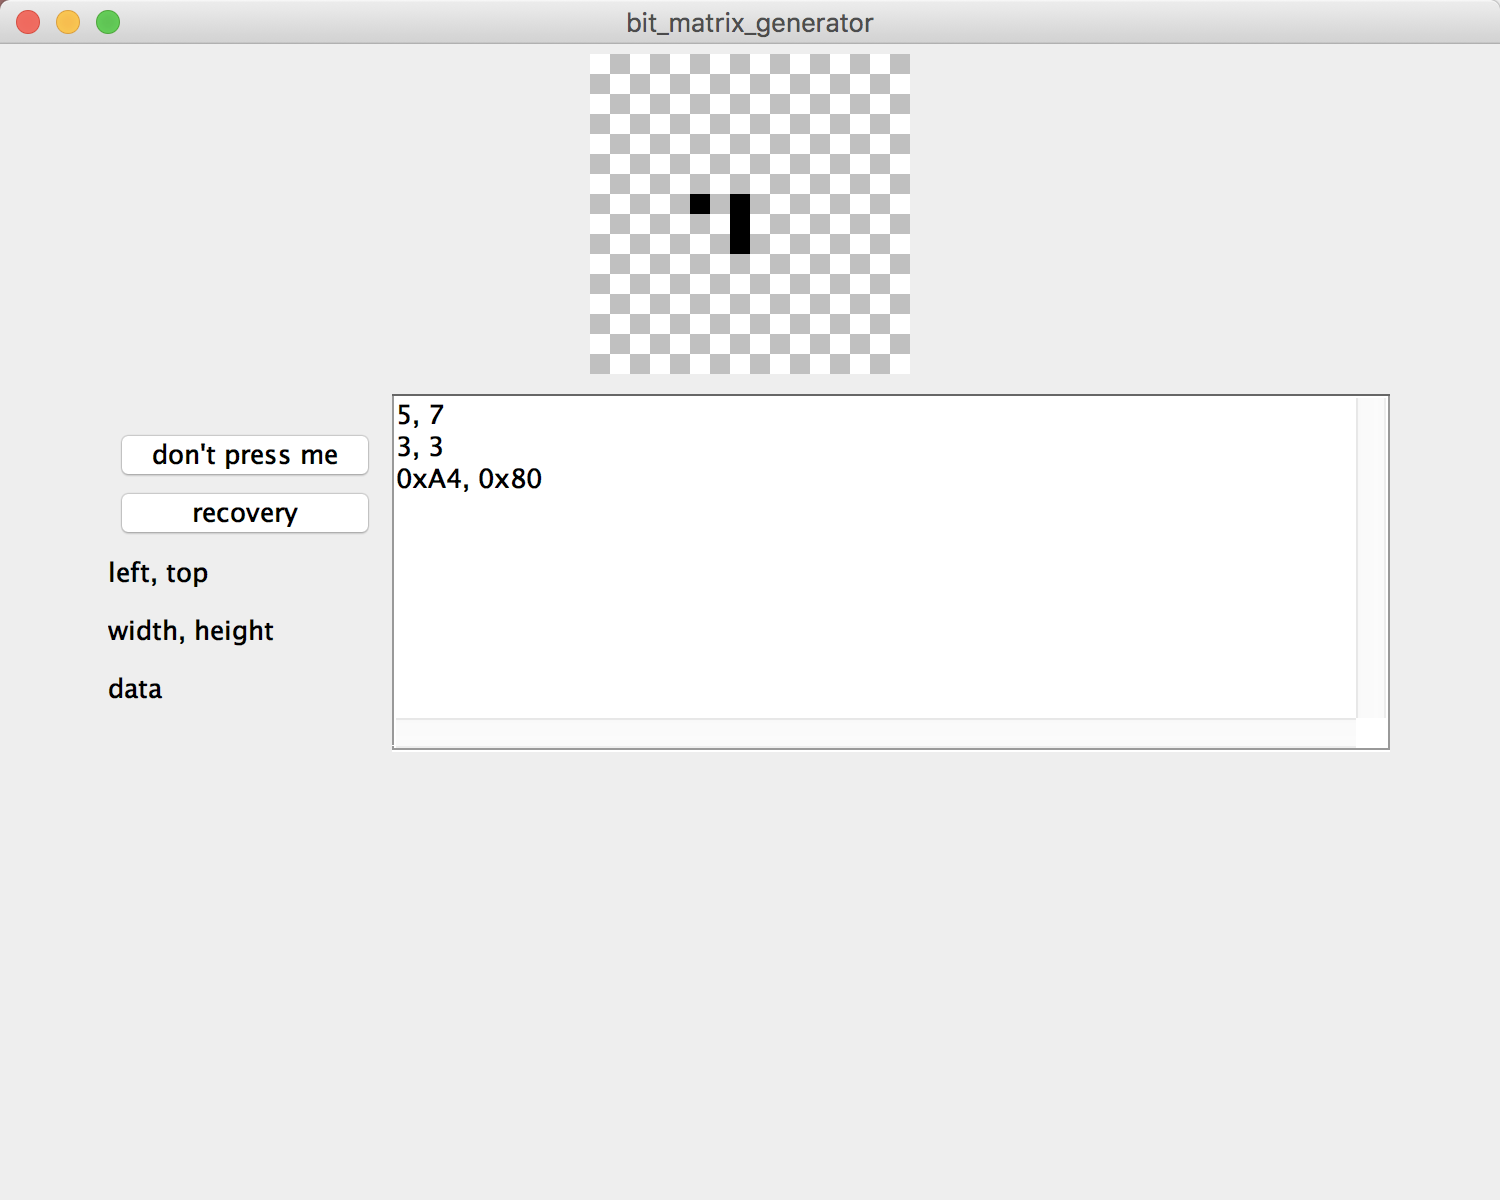
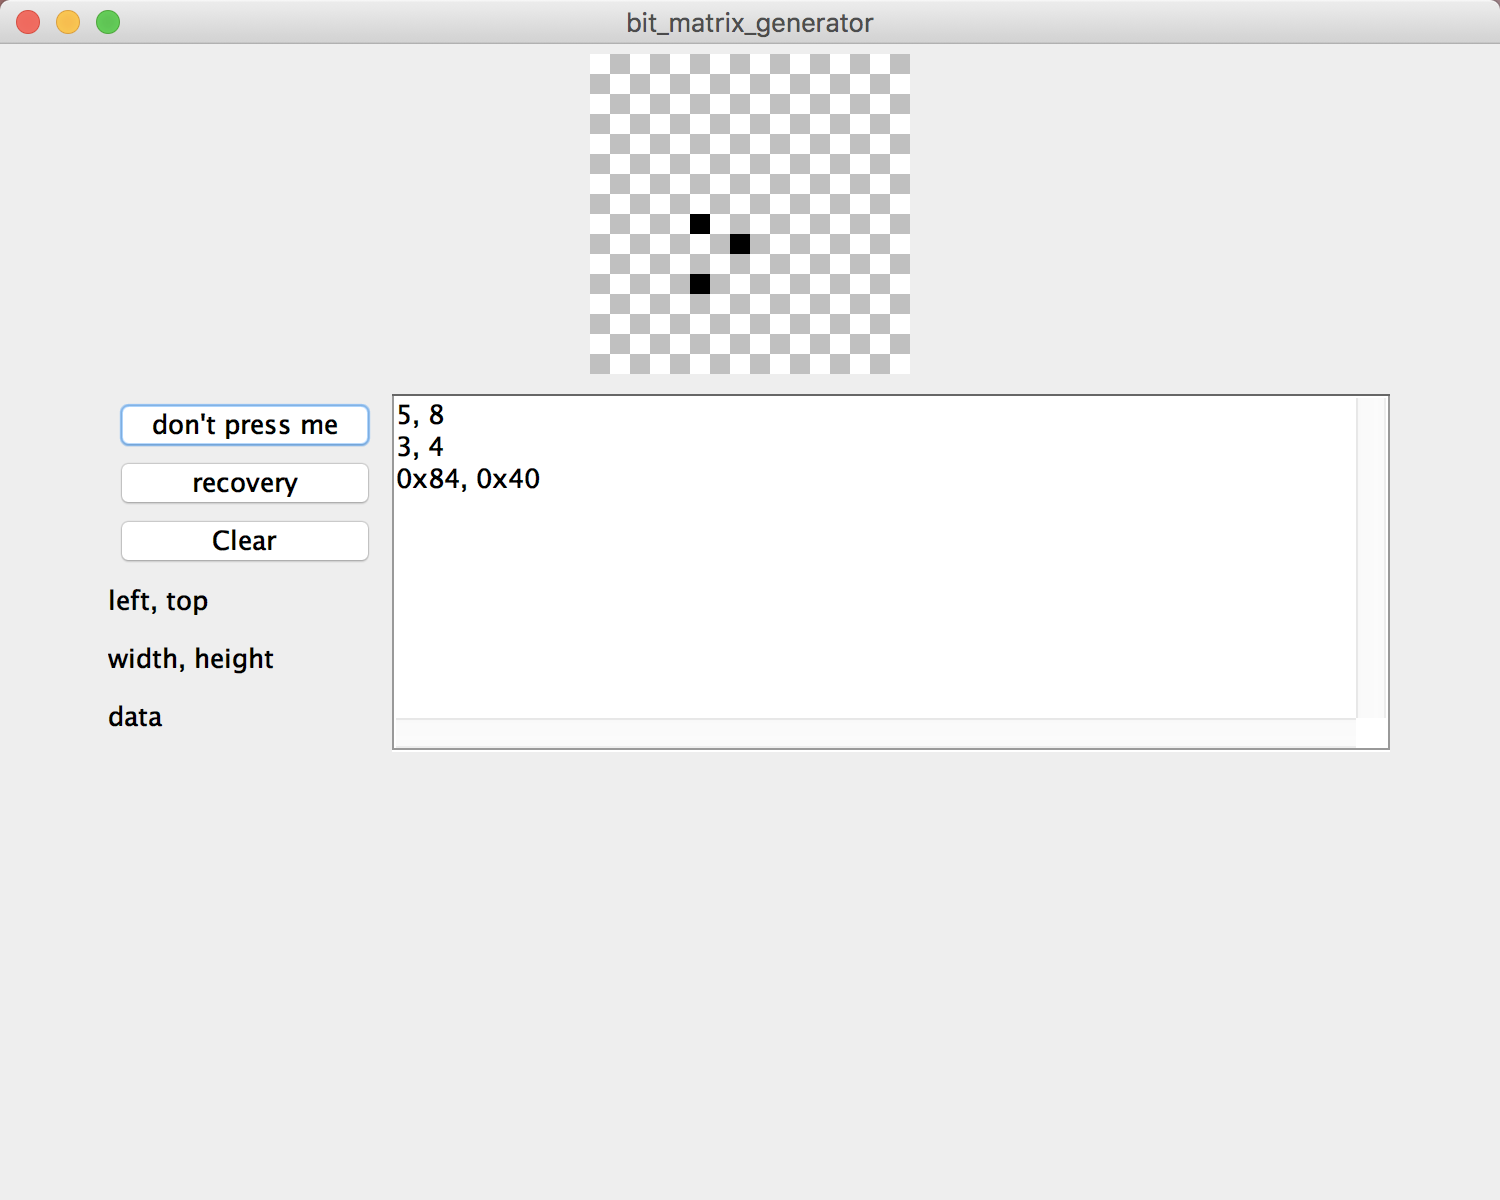
Add Clear Button

Changed region(s): [[0.0613, 0.3392, 0.2453, 0.6167], [0.276, 0.3392, 0.368, 0.4317], [0.46, 0.1542, 0.5213, 0.2467]]

diff --git a/customized_tools/bit_matrix_generater/GUI.java b/customized_tools/bit_matrix_generater/GUI.java
@@ -3,7 +3,7 @@ import java.awt.event.*;
 
 import javax.swing.*;
 
-public class GUI extends Frame implements ActionListener {
+public class GUI extends Frame {
 
     private Cheese cheese;
     private TextArea textArea;
@@ -28,11 +28,15 @@ public class GUI extends Frame implements ActionListener {
 	add(downPanel);
 
 	Panel controller = new Panel();
-	controller.setLayout(new GridLayout(5, 1));
+	controller.setLayout(new GridLayout(6, 1));
 	downPanel.add(controller);
 
 	Button btn = new Button("don't press me");
-	btn.addActionListener(this);
+	btn.addActionListener(new ActionListener() {
+		public void actionPerformed(ActionEvent e) {
+		    textArea.setText(cheese.dump());
+		}
+	    });
 	controller.add(btn);
 
 	Button btn2 = new Button("recovery");
@@ -48,6 +52,15 @@ public class GUI extends Frame implements ActionListener {
 		}
 	    });
 	controller.add(btn2);
+
+	Button btn3 = new Button("Clear");
+	btn3.addActionListener(new ActionListener() {
+		public void actionPerformed(ActionEvent e) {
+		    cheese.clearContent();
+		}
+	    });
+	controller.add(btn3);
+
 	controller.add(new Label("left, top"));
 	controller.add(new Label("width, height"));
 	controller.add(new Label("data"));
@@ -55,10 +68,6 @@ public class GUI extends Frame implements ActionListener {
 	textArea = new TextArea();
 	textArea.setSize(100, 100);
 	downPanel.add(textArea);
-    }
-
-    public void actionPerformed(ActionEvent e) {
-	textArea.setText(cheese.dump());
     }
 
     public static void main(String[] args) {

diff --git a/customized_tools/bit_matrix_generater/Cheese.java b/customized_tools/bit_matrix_generater/Cheese.java
@@ -127,13 +127,7 @@ public class Cheese extends Panel {
 	    matrix[index++] = i;
 	    System.out.printf("0x%X\n", i);
 	}
-
-	int gridSize = cheeseSize * cheeseSize;
-	for (int i = 0; i < gridSize; i++) {
-	    B b = list.get(i);
-	    b.isSelected = false; // clear all
-	    b.repaint();
-	}
+	clearContent();
 
 	index = 0;
 	int bitIndex = 7;
@@ -150,6 +144,15 @@ public class Cheese extends Panel {
 		    bitIndex = 7;
 		}
 	    }
+	}
+    }
+
+    public void clearContent() {
+	int gridSize = cheeseSize * cheeseSize;
+	for (int i = 0; i < gridSize; i++) {
+	    B b = list.get(i);
+	    b.isSelected = false; // clear all
+	    b.repaint();
 	}
     }
 
